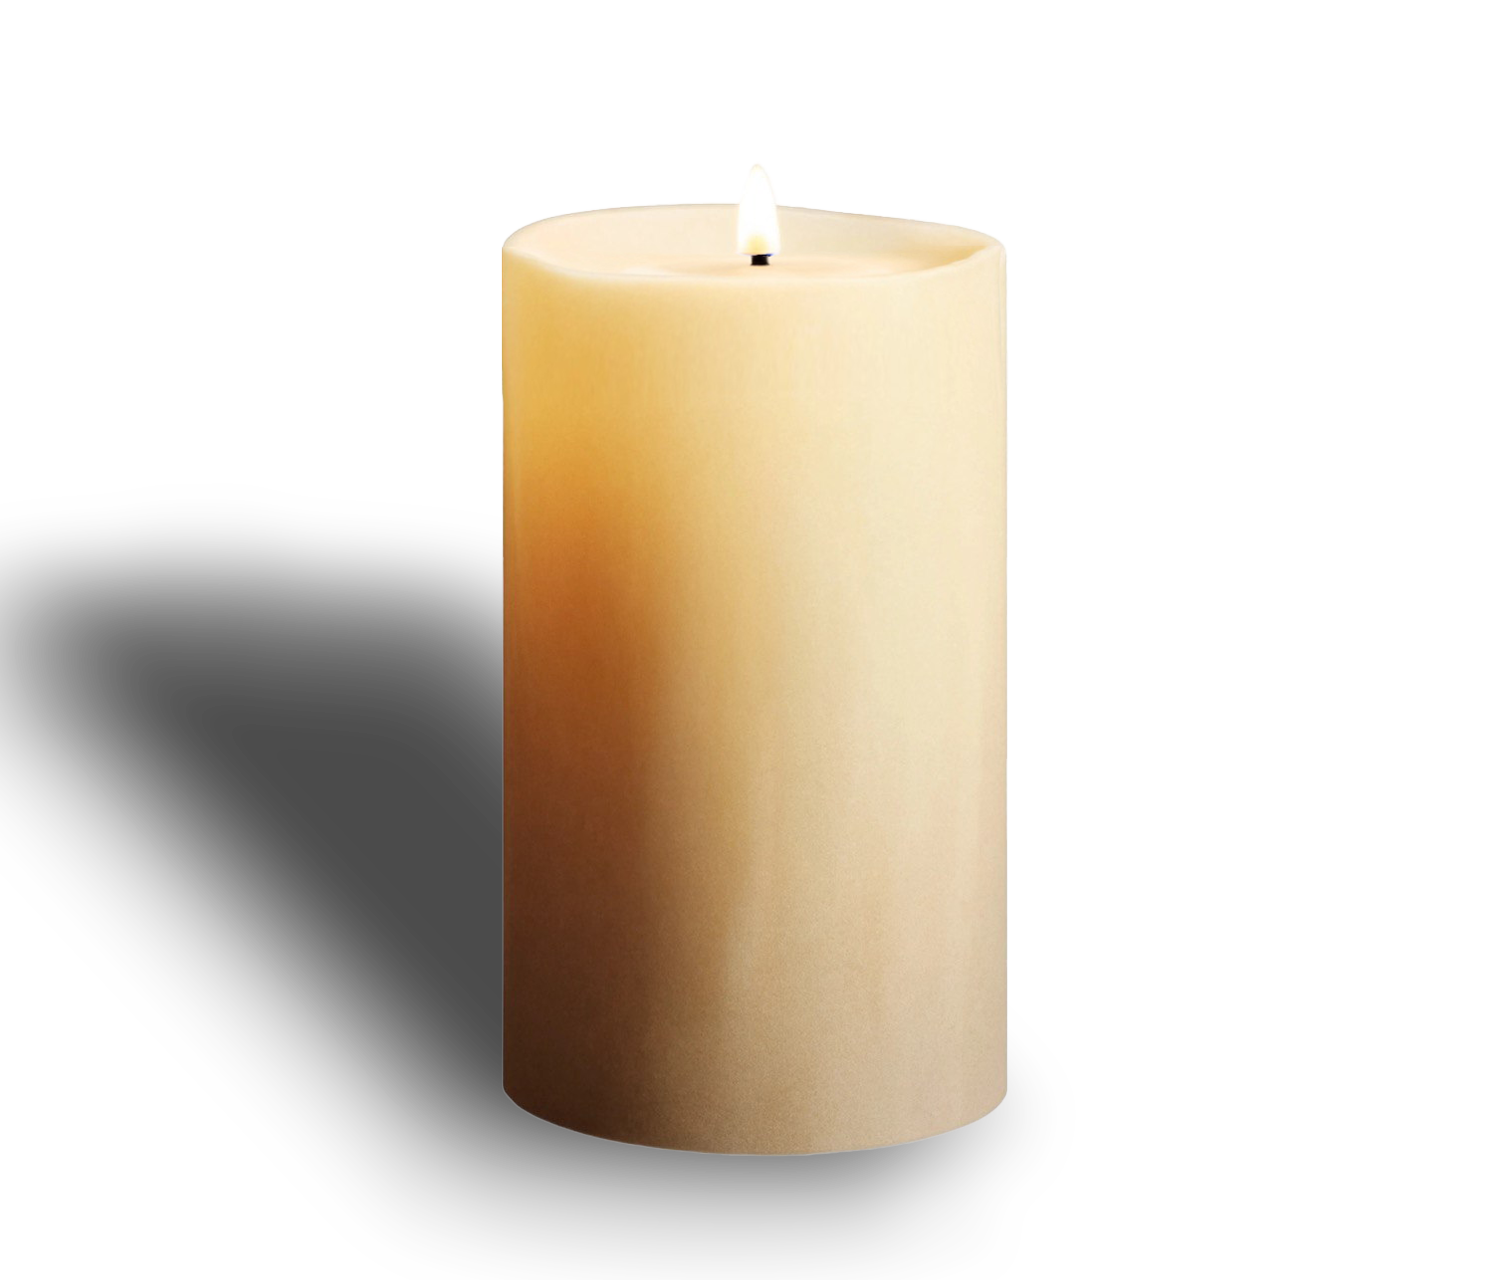
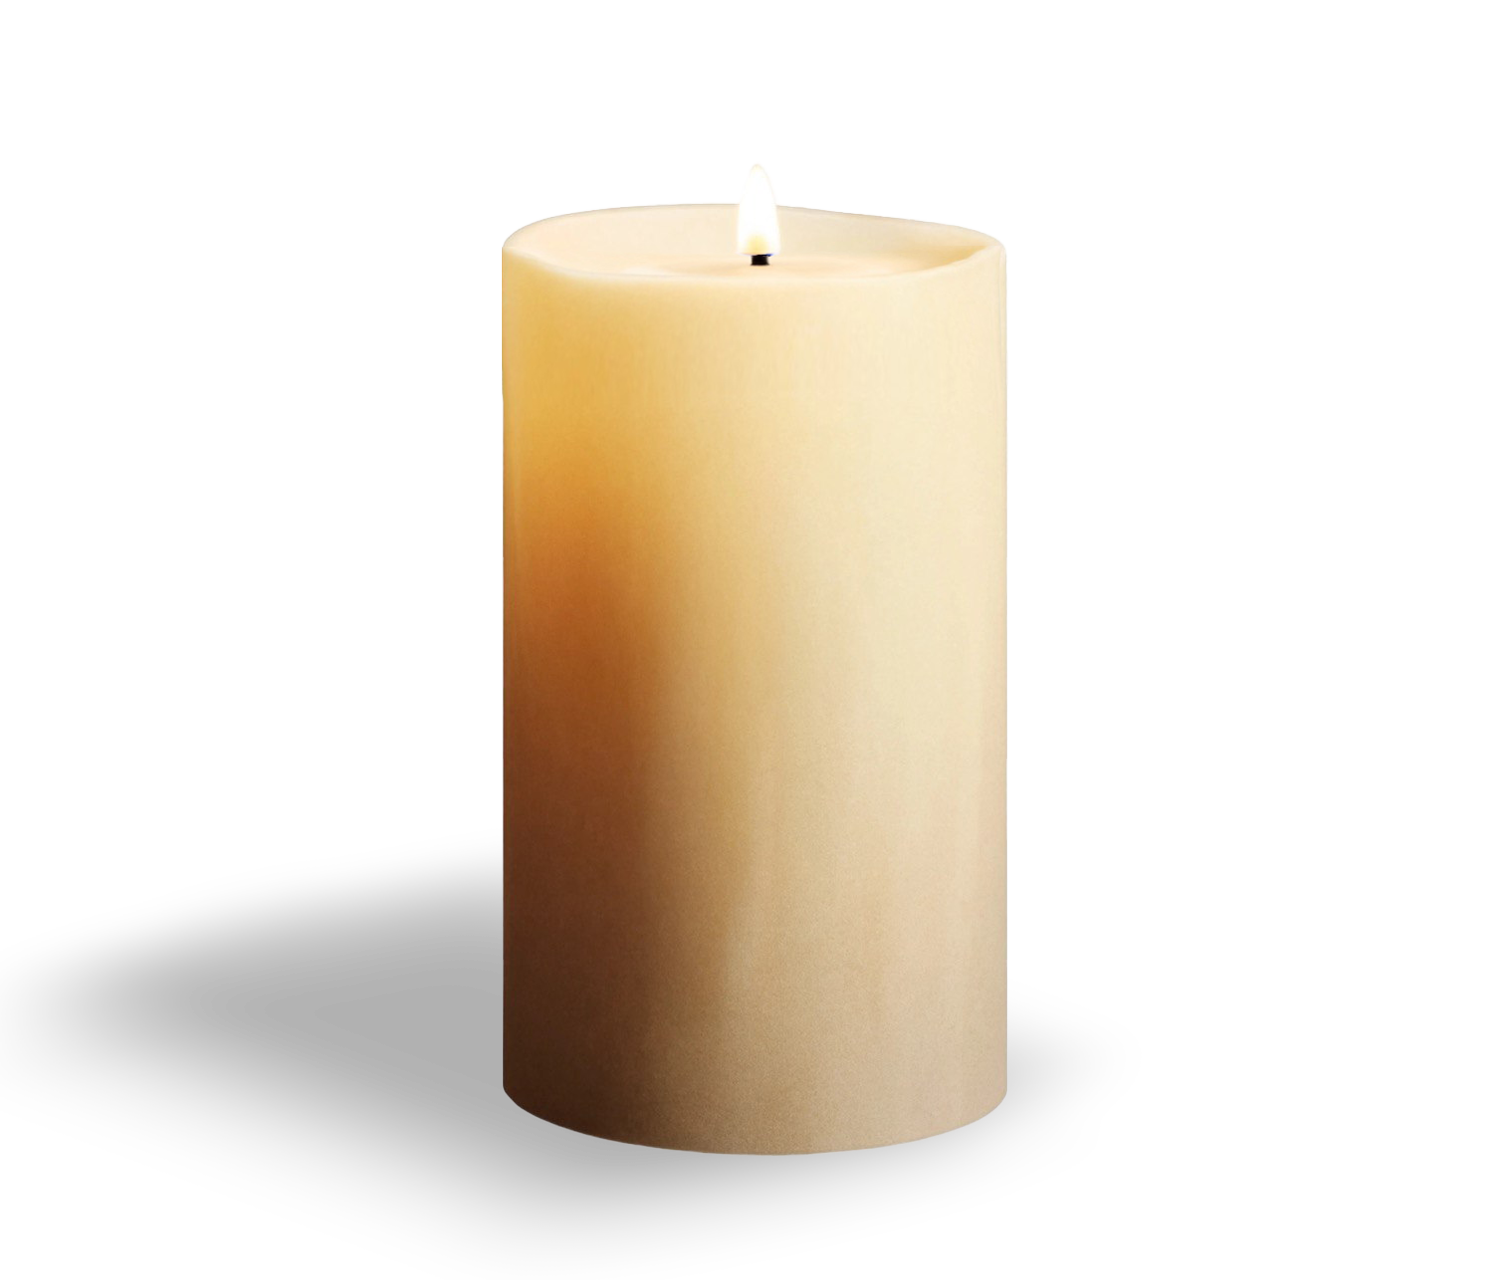
Update hero assets and refine frame layout on memorial pages.
Refresh frame and candle images, align canvas shadow with the page edge, scale frame size, and add static cache busting for hero images.

Changed region(s): [[0.0, 0.4062, 0.644, 0.9688]]

diff --git a/memorials/static/css/memorial.css b/memorials/static/css/memorial.css
@@ -15,11 +15,9 @@
   --hero-text-above-center: 1.5rem;
   --hero-text-offset-x: 5cm;
   --hero-text-lift: 3.3cm;
-  --hero-candle-lift: 2.5cm;
+  --hero-candle-lift: 3cm;
+  --hero-candle-shift-x: 0.3cm;
   --hero-candle-shrink: 1.5cm;
-  --hero-candle-edge-blur: 4px;
-  --hero-candle-edge-strip: 8%;
-  --hero-candle-edge-feather: 5%;
   --card: #faf8f4;
   --text: #3d3429;
   --text-light: #6b6358;
@@ -28,7 +26,20 @@
   --white: #ffffff;
   --hero-frame-base-width: 640px;
   --hero-frame-expand: 6cm;
-  --hero-frame-width: calc((var(--hero-frame-base-width) + 2 * var(--hero-frame-expand)) * var(--hero-frame-scale));
+  --hero-frame-canvas-ref: 4000;
+  --hero-frame-canvas-width: 4500;
+  --hero-frame-canvas-height: 4000;
+  --hero-frame-canvas-scale: calc(var(--hero-frame-canvas-width) / var(--hero-frame-canvas-ref));
+  --hero-frame-diagonal-extra: 4cm;
+  --hero-frame-width-base: calc((var(--hero-frame-base-width) + 2 * var(--hero-frame-expand)) * var(--hero-frame-scale) * var(--hero-frame-canvas-scale));
+  --hero-frame-width: calc(
+    var(--hero-frame-width-base) +
+    var(--hero-frame-diagonal-extra) * var(--hero-frame-canvas-width) /
+    sqrt(
+      var(--hero-frame-canvas-width) * var(--hero-frame-canvas-width) +
+      var(--hero-frame-canvas-height) * var(--hero-frame-canvas-height)
+    )
+  );
 }
 
 * {
@@ -47,6 +58,7 @@ body {
   color: var(--text);
   line-height: 1.7;
   font-size: 16px;
+  overflow-x: hidden;
 }
 
 h1, h2, h3, .section-title {
@@ -77,10 +89,10 @@ h1, h2, h3, .section-title {
   display: flex;
   align-items: flex-start;
   justify-content: center;
-  padding: 1.25rem 2rem 2.5rem;
+  padding: 1.25rem 2rem 2.5rem 0;
   position: relative;
   background: var(--hero-bg);
-  overflow: hidden;
+  overflow: visible;
 }
 
 .hero-floor {
@@ -94,39 +106,38 @@ h1, h2, h3, .section-title {
 }
 
 .hero-inner {
-  display: grid;
-  grid-template-columns: auto auto;
-  gap: 0.75rem;
-  max-width: 1500px;
-  width: 100%;
-  min-height: calc(var(--hero-min-height) - 2rem);
+  display: flex;
   align-items: center;
   justify-content: center;
+  width: 100%;
+  max-width: none;
+  min-height: calc(var(--hero-min-height) - 2rem);
   position: relative;
   z-index: 2;
   padding-bottom: 0;
 }
 
 .hero-portrait-wrap {
-  position: relative;
+  position: absolute;
+  left: 0;
+  top: 50%;
   display: flex;
-  justify-content: center;
+  justify-content: flex-start;
   width: fit-content;
-  max-width: 100%;
-  padding: 0 2rem 0 4rem;
-  transform: translate(
-    calc(-3.5cm - var(--hero-frame-offset-x) + var(--hero-shift-x)),
-    calc(-12px - 0.2cm - var(--hero-lift) - var(--hero-frame-offset-y))
-  );
+  max-width: none;
+  padding: 0;
+  z-index: 2;
+  pointer-events: none;
+  transform: translateY(calc(-50% - 12px - 0.2cm - var(--hero-lift) - var(--hero-frame-offset-y)));
 }
 
 .hero-frame {
   position: relative;
   width: var(--hero-frame-width);
-  max-width: 100%;
+  max-width: none;
+  flex-shrink: 0;
   z-index: 1;
   background: transparent;
-  transform: translateX(calc(-1 * var(--hero-frame-nudge-left)));
 }
 
 .hero-frame img.frame-border {
@@ -144,37 +155,7 @@ h1, h2, h3, .section-title {
   width: calc(50% - var(--hero-candle-shrink));
   z-index: 3;
   pointer-events: none;
-  transform: translate(-8%, 6%) translateY(calc(-1 * var(--hero-candle-lift)));
-}
-
-.hero-candle-wrap::before {
-  content: '';
-  position: absolute;
-  left: 0;
-  bottom: 0;
-  width: 100%;
-  height: var(--hero-candle-edge-strip);
-  z-index: 2;
-  pointer-events: none;
-  backdrop-filter: blur(var(--hero-candle-edge-blur));
-  -webkit-backdrop-filter: blur(var(--hero-candle-edge-blur));
-  -webkit-mask-image: linear-gradient(to top, #000 0%, transparent 70%);
-  mask-image: linear-gradient(to top, #000 0%, transparent 70%);
-}
-
-.hero-candle-wrap::after {
-  content: '';
-  position: absolute;
-  left: 0;
-  top: 0;
-  width: var(--hero-candle-edge-strip);
-  height: 100%;
-  z-index: 2;
-  pointer-events: none;
-  backdrop-filter: blur(var(--hero-candle-edge-blur));
-  -webkit-backdrop-filter: blur(var(--hero-candle-edge-blur));
-  -webkit-mask-image: linear-gradient(to right, #000 0%, transparent 70%);
-  mask-image: linear-gradient(to right, #000 0%, transparent 70%);
+  transform: translate(calc(-8% + var(--hero-candle-shift-x)), 6%) translateY(calc(-1 * var(--hero-candle-lift)));
 }
 
 .hero-candle {
@@ -183,14 +164,6 @@ h1, h2, h3, .section-title {
   height: auto;
   position: relative;
   z-index: 1;
-  -webkit-mask-image:
-    linear-gradient(to right, transparent 0%, #000 var(--hero-candle-edge-feather)),
-    linear-gradient(to top, transparent 0%, #000 var(--hero-candle-edge-feather));
-  -webkit-mask-composite: source-in;
-  mask-image:
-    linear-gradient(to right, transparent 0%, #000 var(--hero-candle-edge-feather)),
-    linear-gradient(to top, transparent 0%, #000 var(--hero-candle-edge-feather));
-  mask-composite: intersect;
 }
 
 .hero-content {
@@ -781,11 +754,7 @@ h1, h2, h3, .section-title {
   }
 
   .hero-portrait-wrap {
-    padding: 0 1.5rem 0 2.5rem;
-    transform: translate(
-      calc(-3.5cm - var(--hero-frame-offset-x) + var(--hero-shift-x)),
-      calc(-8px - 0.2cm - var(--hero-lift) - var(--hero-frame-offset-y))
-    );
+    transform: translateY(calc(-50% - 8px - 0.2cm - var(--hero-lift) - var(--hero-frame-offset-y)));
   }
 
   .hero-name {
@@ -793,7 +762,7 @@ h1, h2, h3, .section-title {
   }
 
   .hero-candle-wrap {
-    transform: translate(-6%, 5%) translateY(calc(-1 * var(--hero-candle-lift)));
+    transform: translate(calc(-6% + var(--hero-candle-shift-x)), 5%) translateY(calc(-1 * var(--hero-candle-lift)));
   }
 }
 
@@ -816,22 +785,21 @@ h1, h2, h3, .section-title {
   }
 
   .hero-inner {
-    grid-template-columns: 1fr;
-    gap: 1.5rem;
-    align-items: center;
     min-height: auto;
   }
 
   .hero-portrait-wrap {
-    padding: 0 1rem 0 2rem;
-    transform: translate(
-      calc(-3.5cm - var(--hero-frame-offset-x) + var(--hero-shift-x)),
-      calc(-8px - 0.4cm - var(--hero-lift) - var(--hero-frame-offset-y))
-    );
+    left: 0;
+    max-width: 100%;
+    transform: translateY(calc(-50% - 8px - 0.4cm - var(--hero-lift) - var(--hero-frame-offset-y)));
+  }
+
+  .hero-frame {
+    max-width: 100%;
   }
 
   .hero-candle-wrap {
-    transform: translate(-5%, 4%) translateY(calc(-1 * var(--hero-candle-lift)));
+    transform: translate(calc(-5% + var(--hero-candle-shift-x)), 4%) translateY(calc(-1 * var(--hero-candle-lift)));
   }
 
   .hero-name {

diff --git a/memorials/templatetags/memorial_tags.py b/memorials/templatetags/memorial_tags.py
@@ -1,4 +1,7 @@
+import os
+
 from django import template
+from django.contrib.staticfiles import finders
 from django.templatetags.static import static
 
 register = template.Library()
@@ -6,6 +9,7 @@ register = template.Library()
 HERO_IMAGES = {
     "frame": "img/frame.png",
     "candle": "img/candle.png",
+    "portrait": "img/portrait.png",
 }
 
 MONTHS_RU = {
@@ -39,7 +43,12 @@ def hero_image(name):
     path = HERO_IMAGES.get(name)
     if not path:
         return ""
-    return static(path)
+    url = static(path)
+    found = finders.find(path)
+    if found:
+        version = int(os.path.getmtime(found))
+        return f"{url}?v={version}"
+    return url
 
 
 @register.filter

diff --git a/memorials/management/commands/load_demo.py b/memorials/management/commands/load_demo.py
@@ -17,10 +17,7 @@ from memorials.models import (
 )
 from memorials.templatetags.memorial_tags import HERO_IMAGES
 
-DEMO_PORTRAIT_CANDIDATES = [
-    Path(settings.BASE_DIR) / "content" / "photo_2026-06-09_17-13-00.png",
-    Path(settings.BASE_DIR) / "memorials" / "static" / HERO_IMAGES["portrait"],
-]
+DEMO_PORTRAIT_PATH = Path(settings.BASE_DIR) / "memorials" / "static" / HERO_IMAGES["portrait"]
 
 
 class Command(BaseCommand):
@@ -29,7 +26,7 @@ class Command(BaseCommand):
     def _attach_demo_portrait(self, memorial):
         if memorial.portrait:
             return
-        portrait_path = next((p for p in DEMO_PORTRAIT_CANDIDATES if p.is_file()), None)
+        portrait_path = DEMO_PORTRAIT_PATH if DEMO_PORTRAIT_PATH.is_file() else None
         if not portrait_path:
             return
         with portrait_path.open("rb") as portrait_file: